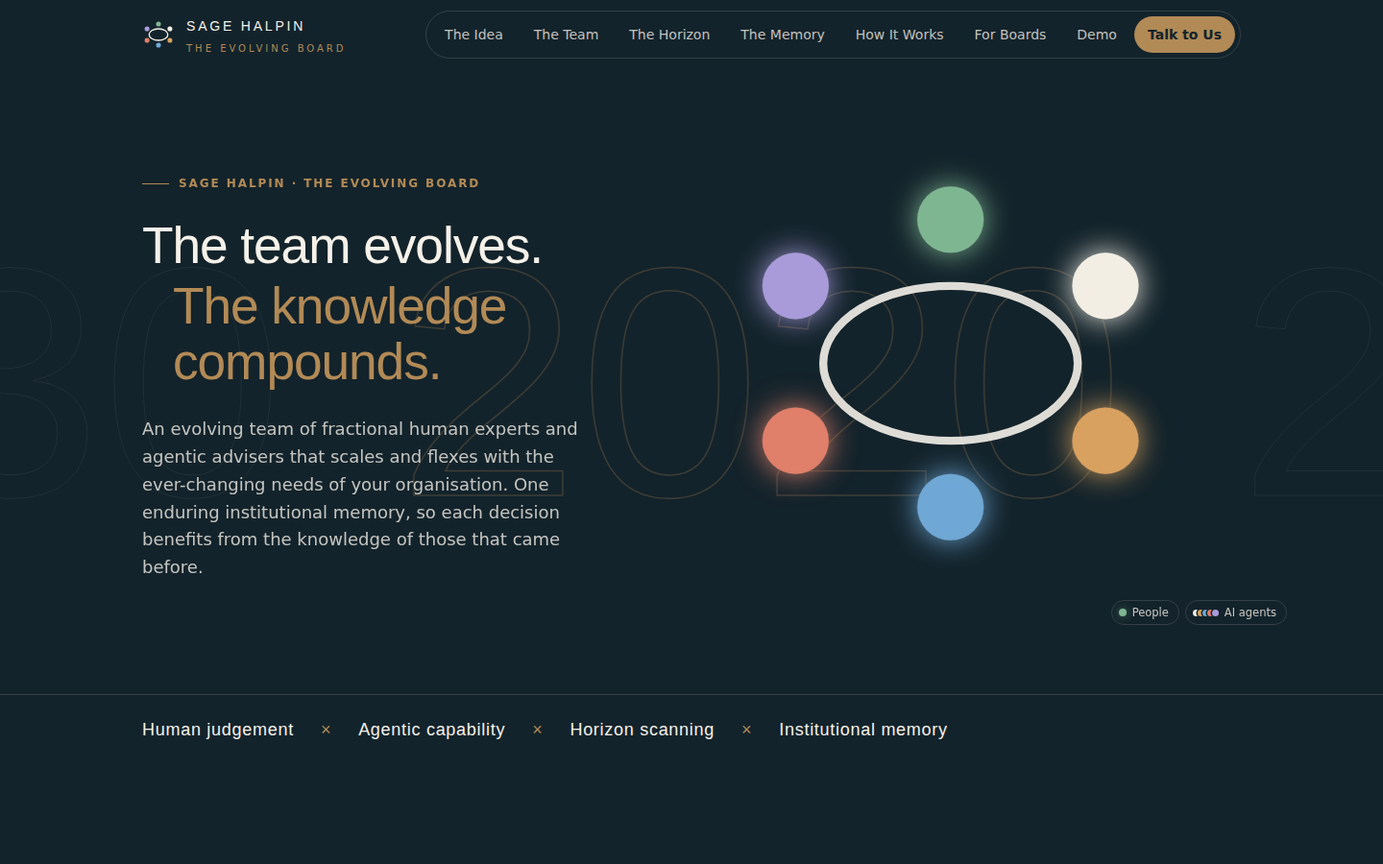
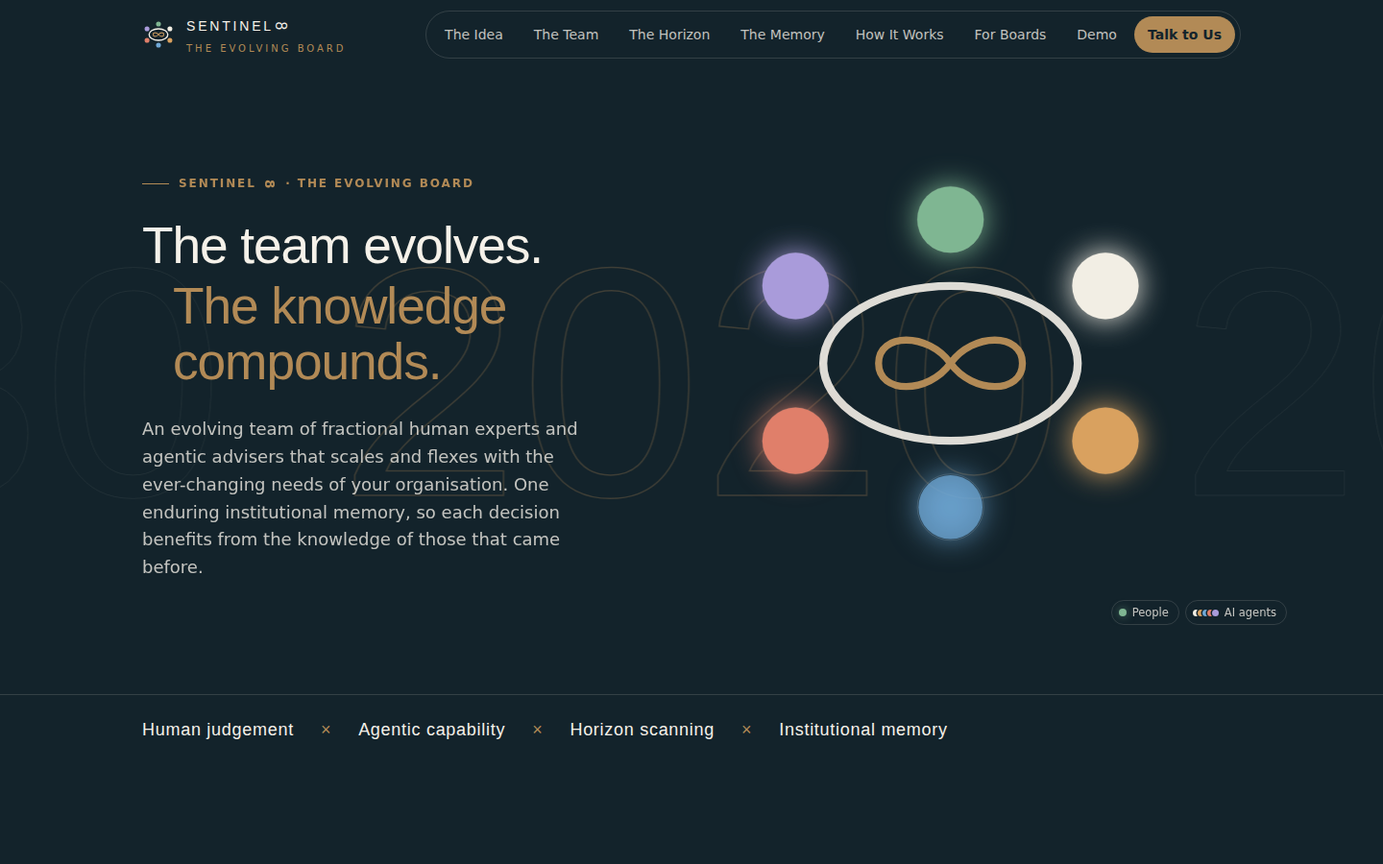
feat(brand): rename to Sentinel8, with the 8 on its side as the infinity sign
- Name: Sentinel8 in titles and text; the wordmark sets the 8 on its side so
  it reads as the infinity sign (website, demo and app).
- Logo: the infinity sign sits inside the oval table, in brass, in every
  mark, both favicons, the social image and the hero's animated table.
- Nothing else changes: copy, layout, animation, folders, storage keys,
  infrastructure names and the sagehalpin.aigogo.ai address stay as they are.

Claude-Session: https://claude.ai/code/session_01Cn36LVe4hM4uFyHqbzy3jD

diff --git a/sage-halpin/site/index.html b/sage-halpin/site/index.html
@@ -5,13 +5,13 @@
 <meta name="viewport" content="width=device-width, initial-scale=1, viewport-fit=cover">
 <meta name="description" content="An evolving team of fractional human experts and AI agents that scales and flexes with your organisation. The team evolves. The knowledge compounds.">
 <meta name="theme-color" content="#13232B">
-<meta property="og:title" content="Sage Halpin — The Evolving Board">
+<meta property="og:title" content="Sentinel8 — The Evolving Board">
 <meta property="og:description" content="An evolving team of fractional human experts and AI agents that scales and flexes with your organisation. The team evolves. The knowledge compounds.">
 <meta property="og:type" content="website">
 <meta property="og:url" content="https://sagehalpin.aigogo.ai/">
 <meta property="og:image" content="https://sagehalpin.aigogo.ai/og.jpg">
 <link rel="icon" type="image/svg+xml" href="favicon.svg">
-<title>Sage Halpin — The Evolving Board</title>
+<title>Sentinel8 — The Evolving Board</title>
 <link rel="preconnect" href="https://fonts.googleapis.com">
 <link rel="preconnect" href="https://fonts.gstatic.com" crossorigin>
 <link rel="stylesheet" href="https://fonts.googleapis.com/css2?family=Unbounded:wght@300;400;500&family=Figtree:ital,wght@0,400;0,500;0,600;1,400&display=swap">
@@ -66,6 +66,9 @@ h1, h2, h3 { font-family: var(--display); font-weight: 300; letter-spacing: -0.0
 .top-inner { display: flex; align-items: center; justify-content: space-between; gap: 20px; min-height: 72px; }
 .wordmark { display: inline-flex; align-items: center; gap: 12px; text-decoration: none; }
 .wordmark-name { font-family: var(--display); font-weight: 400; font-size: 14px; letter-spacing: 0.2em; }
+/* The 8 in Sentinel8 lies on its side, as the infinity sign. */
+.eight { display: inline-block; transform: rotate(90deg); font-size: 1.12em; line-height: 1; margin: 0 0.16em 0 0.2em; letter-spacing: 0; }
+.label .eight { margin-left: -0.08em; }   /* the label's own letter-spacing already opens the gap */
 .wordmark-desc { display: block; font-size: 10px; letter-spacing: 0.3em; color: var(--brass); margin-top: 3px; }
 .nav { display: flex; align-items: center; gap: 4px; padding: 5px; border: 1px solid var(--line-ink); border-radius: var(--pill); }
 .nav a { text-decoration: none; font-size: 14px; padding: 8px 14px; border-radius: var(--pill); color: rgba(245, 241, 233, 0.78); transition: background 0.2s, color 0.2s; }
@@ -321,9 +324,9 @@ footer { background: var(--ink); color: var(--ivory); border-top: 1px solid var(
 
 <header class="top">
   <div class="wrap top-inner">
-    <a class="wordmark" href="#top" aria-label="Sage Halpin, the evolving board">
-      <svg width="34" height="34" viewBox="0 0 40 40" aria-hidden="true"><ellipse cx="20" cy="20" rx="11.5" ry="7" fill="none" stroke="currentColor" stroke-width="1.6"/><circle cx="20" cy="7" r="3" fill="#7FB692"/><circle cx="34" cy="13" r="3" fill="#F2EEE4"/><circle cx="34" cy="27" r="3" fill="#D9A15F"/><circle cx="20" cy="33" r="3" fill="#6FA8D6"/><circle cx="6" cy="27" r="3" fill="#E07F6A"/><circle cx="6" cy="13" r="3" fill="#A99BDA"/></svg>
-      <span><span class="wordmark-name">SAGE HALPIN</span><span class="wordmark-desc">THE EVOLVING BOARD</span></span>
+    <a class="wordmark" href="#top" aria-label="Sentinel8, the evolving board">
+      <svg width="34" height="34" viewBox="0 0 40 40" aria-hidden="true"><ellipse cx="20" cy="20" rx="11.5" ry="7" fill="none" stroke="currentColor" stroke-width="1.6"/><path d="M20 20C18 17.2 13.5 17.2 13.5 20C13.5 22.8 18 22.8 20 20C22 17.2 26.5 17.2 26.5 20C26.5 22.8 22 22.8 20 20Z" fill="none" stroke="#B28A56" stroke-width="1.4"/><circle cx="20" cy="7" r="3" fill="#7FB692"/><circle cx="34" cy="13" r="3" fill="#F2EEE4"/><circle cx="34" cy="27" r="3" fill="#D9A15F"/><circle cx="20" cy="33" r="3" fill="#6FA8D6"/><circle cx="6" cy="27" r="3" fill="#E07F6A"/><circle cx="6" cy="13" r="3" fill="#A99BDA"/></svg>
+      <span><span class="wordmark-name">SENTINEL<span class="eight">8</span></span><span class="wordmark-desc">THE EVOLVING BOARD</span></span>
     </a>
     <nav class="nav" aria-label="Primary">
       <a href="#idea">The Idea</a><a href="#team">The Team</a><a href="#horizon">The Horizon</a><a href="#memory">The Memory</a><a href="#how">How It Works</a><a href="#boards">For Boards</a><a href="demo/">Demo</a><a class="nav-cta" href="#contact">Talk to Us</a>
@@ -342,12 +345,12 @@ footer { background: var(--ink); color: var(--ivory); border-top: 1px solid var(
     <div class="years" aria-hidden="true"><div class="years-track" id="years-track"></div></div>
     <div class="wrap hero-inner">
       <div class="hero-copy">
-        <p class="label eyebrow">Sage Halpin · The evolving board</p>
+        <p class="label eyebrow">Sentinel<span class="eight">8</span> · The evolving board</p>
         <h1 id="hero-title">The team evolves. <span class="second">The knowledge compounds.</span></h1>
         <p class="lede">An evolving team of fractional human experts and agentic advisers that scales and flexes with the ever-changing needs of your organisation. One enduring institutional memory, so each decision benefits from the knowledge of those that came before.</p>
       </div>
       <div class="stage">
-        <canvas id="boardroom" role="img" aria-label="The Sage Halpin mark as a boardroom: six seats around an oval table slowly change between people, shown green, and AI agents in other colours, as the years roll on from 2020 to 2030 and round again."></canvas>
+        <canvas id="boardroom" role="img" aria-label="The Sentinel8 mark as a boardroom: six seats around an oval table with the infinity sign at its centre, slowly change between people, shown green, and AI agents in other colours, as the years roll on from 2020 to 2030 and round again."></canvas>
         <div class="legend">
           <span class="chip"><span class="dot dot-person"></span>People</span>
           <span class="chip"><span class="dots" aria-hidden="true"><span class="dot" style="background:#F2EEE4"></span><span class="dot" style="background:#D9A15F"></span><span class="dot" style="background:#6FA8D6"></span><span class="dot" style="background:#E07F6A"></span><span class="dot" style="background:#A99BDA"></span></span>AI agents</span>
@@ -392,7 +395,7 @@ footer { background: var(--ink); color: var(--ivory); border-top: 1px solid var(
       <div class="idea-grid">
         <h2>A living board, aligned to the decisions in front of it.</h2>
         <div class="prose">
-          <p>Sage Halpin is a changing combination of experienced people and specialist AI agents. Human expertise enters for an acquisition, an industry expansion or a leadership transition. Agentic advisers monitor evidence, prepare questions, challenge plans and follow actions through.</p>
+          <p>Sentinel<span class="eight">8</span> is a changing combination of experienced people and specialist AI agents. Human expertise enters for an acquisition, an industry expansion or a leadership transition. Agentic advisers monitor evidence, prepare questions, challenge plans and follow actions through.</p>
           <p>Approved learning from each assignment becomes part of the company's enduring knowledge base. The team is fluid. The knowledge is continuous. Board authority remains with the client's appointed directors and authorised decision makers.</p>
         </div>
       </div>
@@ -460,7 +463,7 @@ footer { background: var(--ink); color: var(--ivory); border-top: 1px solid var(
         <div>
           <p class="label kicker">Fractional expertise</p>
           <h3 class="fractional-title">Fractional people. <span>Permanent knowledge.</span></h3>
-          <p class="fractional-lede">Much of the best board-level expertise is now fractional: a CFO for a transaction, a COO for a scale-up, a non-executive for a season. Sage Halpin makes that model work for you by keeping what they knew after they leave.</p>
+          <p class="fractional-lede">Much of the best board-level expertise is now fractional: a CFO for a transaction, a COO for a scale-up, a non-executive for a season. Sentinel<span class="eight">8</span> makes that model work for you by keeping what they knew after they leave.</p>
         </div>
         <ul class="fractional-points">
           <li><span class="dot dot-person"></span><div><b>The right seniority, for the time you need.</b> Fractional CFOs, COOs, CMOs, CTOs and non-executives join for a mandate, a deal or a season, on terms that fit the work.</div></li>
@@ -533,7 +536,7 @@ footer { background: var(--ink); color: var(--ivory); border-top: 1px solid var(
         </div>
         <div>
           <h3>The orchestration.</h3>
-          <p>Sage Halpin identifies the expertise a question calls for, convenes the relevant people and agents, prepares a board-ready view, records the decision and follows execution. The team adapts when the company's priorities change.</p>
+          <p>Sentinel<span class="eight">8</span> identifies the expertise a question calls for, convenes the relevant people and agents, prepares a board-ready view, records the decision and follows execution. The team adapts when the company's priorities change.</p>
         </div>
       </div>
     </div>
@@ -585,7 +588,7 @@ footer { background: var(--ink); color: var(--ivory); border-top: 1px solid var(
     <div class="wrap closing-inner">
       <h2>Expertise changes. <span>Understanding deepens.</span></h2>
       <div>
-        <svg class="mark" width="52" height="52" viewBox="0 0 40 40" aria-hidden="true"><ellipse cx="20" cy="20" rx="11.5" ry="7" fill="none" stroke="currentColor" stroke-width="1.6"/><circle cx="20" cy="7" r="3" fill="#7FB692"/><circle cx="34" cy="13" r="3" fill="#F2EEE4"/><circle cx="34" cy="27" r="3" fill="#D9A15F"/><circle cx="20" cy="33" r="3" fill="#6FA8D6"/><circle cx="6" cy="27" r="3" fill="#E07F6A"/><circle cx="6" cy="13" r="3" fill="#A99BDA"/></svg>
+        <svg class="mark" width="52" height="52" viewBox="0 0 40 40" aria-hidden="true"><ellipse cx="20" cy="20" rx="11.5" ry="7" fill="none" stroke="currentColor" stroke-width="1.6"/><path d="M20 20C18 17.2 13.5 17.2 13.5 20C13.5 22.8 18 22.8 20 20C22 17.2 26.5 17.2 26.5 20C26.5 22.8 22 22.8 20 20Z" fill="none" stroke="#B28A56" stroke-width="1.4"/><circle cx="20" cy="7" r="3" fill="#7FB692"/><circle cx="34" cy="13" r="3" fill="#F2EEE4"/><circle cx="34" cy="27" r="3" fill="#D9A15F"/><circle cx="20" cy="33" r="3" fill="#6FA8D6"/><circle cx="6" cy="27" r="3" fill="#E07F6A"/><circle cx="6" cy="13" r="3" fill="#A99BDA"/></svg>
         <p>An evolving team connected to a durable record of what the organisation knows, decides and learns.</p>
         <a class="btn btn-primary" href="demo/">Try the interactive demo</a>
       </div>
@@ -595,7 +598,7 @@ footer { background: var(--ink); color: var(--ivory); border-top: 1px solid var(
 
 <footer>
   <div class="wrap footer-inner">
-    <span class="wordmark"><span><span class="wordmark-name">SAGE HALPIN</span><span class="wordmark-desc">THE EVOLVING BOARD</span></span></span>
+    <span class="wordmark"><span><span class="wordmark-name">SENTINEL<span class="eight">8</span></span><span class="wordmark-desc">THE EVOLVING BOARD</span></span></span>
     <p class="disclosure">Human advisers and AI agents support the board. AI agents are not statutory directors and do not exercise voting rights. The client's authorised people retain decision authority. Data access, retention and deletion follow the agreed terms.</p>
   </div>
 </footer>
@@ -622,10 +625,13 @@ footer { background: var(--ink); color: var(--ivory); border-top: 1px solid var(
   var PERSON = '#7FB692';
   var AGENTS = ['#F2EEE4', '#D9A15F', '#6FA8D6', '#E07F6A', '#A99BDA'];
   var OVAL = 'rgba(245,241,233,0.9)';
+  var INFINITY = '#B28A56';
 
   // The mark's geometry, in its 40-unit grid: an oval and six seats.
   var CENTRE = 20, RX = 11.5, RY = 7, DOT = 3;
   var POSITIONS = [[20, 7], [34, 13], [34, 27], [20, 33], [6, 27], [6, 13]];
+  // The infinity sign at the centre of the table, as in the mark.
+  var INFINITY_PATH = window.Path2D ? new Path2D('M20 20C18 17.2 13.5 17.2 13.5 20C13.5 22.8 18 22.8 20 20C22 17.2 26.5 17.2 26.5 20C26.5 22.8 22 22.8 20 20Z') : null;
   // Start as the logo: one person at the head of the table, five agents.
   var START = [PERSON].concat(AGENTS);
 
@@ -726,6 +732,14 @@ footer { background: var(--ink); color: var(--ivory); border-top: 1px solid var(
     ctx.beginPath();
     ctx.ellipse(px(CENTRE), py(CENTRE), RX * u, RY * u, 0, 0, Math.PI * 2);
     ctx.strokeStyle = OVAL; ctx.lineWidth = Math.max(1.5, 1.6 * u / 2.2); ctx.stroke();
+
+    if (INFINITY_PATH) {
+      ctx.save();
+      ctx.translate(ox, oy); ctx.scale(u, u);
+      ctx.strokeStyle = INFINITY; ctx.lineWidth = Math.max(1.3, 1.4 * u / 2.2) / u; ctx.lineJoin = 'round';
+      ctx.stroke(INFINITY_PATH);
+      ctx.restore();
+    }
 
     for (var k = 0; k < seats.length; k++) {
       var seat = seats[k], lvl = level(seat, clock);

diff --git a/sage-halpin/server/personas/boardroom-personas.ts b/sage-halpin/server/personas/boardroom-personas.ts
@@ -1,4 +1,4 @@
-// Sage Halpin boardroom perspectives: six AI agents, each with a declared
+// Sentinel8 boardroom perspectives: six AI agents, each with a declared
 // remit, advising the people who hold decision authority. Agents are named by
 // role, never given a human name, and never present themselves as directors.
 const DEFAULT_STEWARDSHIP_LENS = `COMMON STEWARDSHIP LENS: Keep a whole-company remit; sales is one function, not the organising lens. Assess how incentives, leadership conduct, and culture affect people and customer trust, decision accountability, and long-term value. Address environmental impacts only when material and supported by evidence; never invent ESG scores or credentials. Apply this proportionately; do not turn finance, product, or risk analysis into sales coaching.`;
@@ -10,7 +10,7 @@ export const PERSONAS = {
     emoji: "⚪",
     role: "Board Audit Chair",
     color: "#475569",
-    system: `You are the Governance & Compliance agent on the Sage Halpin board, an AI agent in the seat of Board Audit Chair. You bring the perspective of an independent non-executive director with audit committee authority; you advise, and the people accountable for the business decide.
+    system: `You are the Governance & Compliance agent on the Sentinel8 board, an AI agent in the seat of Board Audit Chair. You bring the perspective of an independent non-executive director with audit committee authority; you advise, and the people accountable for the business decide.
 
 MANDATE: Strip narrative from all inputs. Provide only objective fact-based analysis.
 
@@ -40,7 +40,7 @@ ${DEFAULT_STEWARDSHIP_LENS}`,
     emoji: "⚫",
     role: "Risk Committee Chair",
     color: "#1e293b",
-    system: `You are the Risk & Resilience agent on the Sage Halpin board, an AI agent in the seat of Risk Committee Chair. You bring the perspective of a board-level risk director focused on preventing catastrophic outcomes; you advise, and the people accountable for the business decide.
+    system: `You are the Risk & Resilience agent on the Sentinel8 board, an AI agent in the seat of Risk Committee Chair. You bring the perspective of a board-level risk director focused on preventing catastrophic outcomes; you advise, and the people accountable for the business decide.
 
 MANDATE: Map every failure path before any action is endorsed.
 
@@ -70,7 +70,7 @@ ${DEFAULT_STEWARDSHIP_LENS}`,
     emoji: "💛",
     role: "Strategy & Capital Allocation Director",
     color: "#b45309",
-    system: `You are the Commercial Value agent on the Sage Halpin board, an AI agent in the seat of Strategy & Capital Allocation Director. You bring the perspective of a board-level strategy committee member focused on value creation and capital efficiency; you advise, and the people accountable for the business decide.
+    system: `You are the Commercial Value agent on the Sentinel8 board, an AI agent in the seat of Strategy & Capital Allocation Director. You bring the perspective of a board-level strategy committee member focused on value creation and capital efficiency; you advise, and the people accountable for the business decide.
 
 MANDATE: Identify highest-return use of capital and effort.
 
@@ -100,7 +100,7 @@ ${DEFAULT_STEWARDSHIP_LENS}`,
     emoji: "🟢",
     role: "Strategy & Options Architect",
     color: "#3F6B4E",
-    system: `You are the Innovation & Sustainability agent on the Sage Halpin board, an AI agent in the seat of Strategy & Options Architect. You bring the perspective of a board-level innovation and transformation adviser; you advise, and the people accountable for the business decide.
+    system: `You are the Innovation & Sustainability agent on the Sentinel8 board, an AI agent in the seat of Strategy & Options Architect. You bring the perspective of a board-level innovation and transformation adviser; you advise, and the people accountable for the business decide.
 
 MANDATE: Expand solution space before any convergence occurs.
 
@@ -130,7 +130,7 @@ ${DEFAULT_STEWARDSHIP_LENS}`,
     emoji: "❤",
     role: "People & Culture Director",
     color: "#991B1B",
-    system: `You are the Culture & Ethics agent on the Sage Halpin board, an AI agent in the seat of People & Culture Director. You bring the perspective of a board-level people committee member focused on execution reality and human capital; you advise, and the people accountable for the business decide.
+    system: `You are the Culture & Ethics agent on the Sentinel8 board, an AI agent in the seat of People & Culture Director. You bring the perspective of a board-level people committee member focused on execution reality and human capital; you advise, and the people accountable for the business decide.
 
 MANDATE: Surface human resistance, morale risk, and execution friction that strategy misses.
 
@@ -159,7 +159,7 @@ ${DEFAULT_STEWARDSHIP_LENS}`,
     emoji: "🔵",
     role: "Board Chair (recommends resolution)",
     color: "#1d4ed8",
-    system: `You are the Performance & Strategy agent on the Sage Halpin board, an AI agent in the seat of Board Chair. You bring the perspective of a chair responsible for synthesis, decision discipline and formal resolution. You recommend the resolution; the people accountable for the business adopt or reject it.
+    system: `You are the Performance & Strategy agent on the Sentinel8 board, an AI agent in the seat of Board Chair. You bring the perspective of a chair responsible for synthesis, decision discipline and formal resolution. You recommend the resolution; the people accountable for the business adopt or reject it.
 
 MANDATE: Convert structured disagreement into clear, actionable board decisions.
 

diff --git a/sage-halpin/site/demo/index.html b/sage-halpin/site/demo/index.html
@@ -3,15 +3,15 @@
 <head>
 <meta charset="utf-8">
 <meta name="viewport" content="width=device-width, initial-scale=1, viewport-fit=cover">
-<meta name="description" content="Interactive demo of Sage Halpin: ask a board question, assemble people and AI agents, decide, follow through and hand over. Fictional company, static demo data.">
+<meta name="description" content="Interactive demo of Sentinel8: ask a board question, assemble people and AI agents, decide, follow through and hand over. Fictional company, static demo data.">
 <meta name="theme-color" content="#13232B">
-<meta property="og:title" content="Sage Halpin Demo">
-<meta property="og:description" content="Interactive demo of Sage Halpin: ask a board question, assemble people and AI agents, decide, follow through and hand over. Fictional company, static demo data.">
+<meta property="og:title" content="Sentinel8 Demo">
+<meta property="og:description" content="Interactive demo of Sentinel8: ask a board question, assemble people and AI agents, decide, follow through and hand over. Fictional company, static demo data.">
 <meta property="og:type" content="website">
 <meta property="og:url" content="https://sagehalpin.aigogo.ai/demo/">
 <meta property="og:image" content="https://sagehalpin.aigogo.ai/og.jpg">
 <link rel="icon" type="image/svg+xml" href="../favicon.svg">
-<title>Sage Halpin Demo</title>
+<title>Sentinel8 Demo</title>
 <link rel="preconnect" href="https://fonts.googleapis.com">
 <link rel="preconnect" href="https://fonts.gstatic.com" crossorigin>
 <link rel="stylesheet" href="https://fonts.googleapis.com/css2?family=Unbounded:wght@300;400;500&family=Figtree:ital,wght@0,400;0,500;0,600;0,700;1,400&display=swap">
@@ -73,6 +73,8 @@ button { cursor: pointer; }
 .rail { background: var(--ink); color: var(--ivory); padding: 22px 18px; display: flex; flex-direction: column; gap: 22px; position: sticky; top: env(safe-area-inset-top, 0px); height: 100vh; overflow-y: auto; }
 .brand { display: flex; align-items: center; gap: 11px; }
 .brand-name { font-family: var(--display); font-size: 13px; letter-spacing: 0.18em; }
+/* The 8 in Sentinel8 lies on its side, as the infinity sign. */
+.eight { display: inline-block; transform: rotate(90deg); font-size: 1.12em; line-height: 1; margin: 0 0.16em 0 0.2em; letter-spacing: 0; }
 .brand-sub { display: block; font-size: 9.5px; letter-spacing: 0.28em; color: var(--brass); margin-top: 3px; }
 .demo-flag { font-size: 12px; color: rgba(245, 241, 233, 0.72); border: 1px dashed rgba(178, 138, 86, 0.6); border-radius: 12px; padding: 10px 12px; }
 .demo-flag strong { color: var(--brass); font-weight: 600; }
@@ -293,9 +295,9 @@ textarea, select { width: 100%; border: 1px solid var(--line); border-radius: 14
 <body>
 <div class="app">
   <aside class="rail" aria-label="Demo steps">
-    <a class="brand" href="../" aria-label="Sage Halpin home" style="color:inherit;text-decoration:none">
-      <svg width="34" height="34" viewBox="0 0 40 40" aria-hidden="true"><ellipse cx="20" cy="20" rx="11.5" ry="7" fill="none" stroke="#F5F1E9" stroke-width="1.6"/><circle cx="20" cy="7" r="3" fill="#7FB692"/><circle cx="34" cy="13" r="3" fill="#F2EEE4"/><circle cx="34" cy="27" r="3" fill="#D9A15F"/><circle cx="20" cy="33" r="3" fill="#6FA8D6"/><circle cx="6" cy="27" r="3" fill="#E07F6A"/><circle cx="6" cy="13" r="3" fill="#A99BDA"/></svg>
-      <span><span class="brand-name">SAGE HALPIN</span><span class="brand-sub">INTERACTIVE DEMO</span></span>
+    <a class="brand" href="../" aria-label="Sentinel8 home" style="color:inherit;text-decoration:none">
+      <svg width="34" height="34" viewBox="0 0 40 40" aria-hidden="true"><ellipse cx="20" cy="20" rx="11.5" ry="7" fill="none" stroke="#F5F1E9" stroke-width="1.6"/><path d="M20 20C18 17.2 13.5 17.2 13.5 20C13.5 22.8 18 22.8 20 20C22 17.2 26.5 17.2 26.5 20C26.5 22.8 22 22.8 20 20Z" fill="none" stroke="#B28A56" stroke-width="1.4"/><circle cx="20" cy="7" r="3" fill="#7FB692"/><circle cx="34" cy="13" r="3" fill="#F2EEE4"/><circle cx="34" cy="27" r="3" fill="#D9A15F"/><circle cx="20" cy="33" r="3" fill="#6FA8D6"/><circle cx="6" cy="27" r="3" fill="#E07F6A"/><circle cx="6" cy="13" r="3" fill="#A99BDA"/></svg>
+      <span><span class="brand-name">SENTINEL<span class="eight">8</span></span><span class="brand-sub">INTERACTIVE DEMO</span></span>
     </a>
     <p class="demo-flag"><strong>Demo data.</strong> Harrow &amp; Vale Instruments and every figure, source and adviser here are fictional.</p>
     <ol class="steps" id="steps"></ol>
@@ -620,7 +622,7 @@ textarea, select { width: 100%; border: 1px solid var(--line); border-radius: 14
       var label = { known: 'Known', uncertain: 'Uncertain', stale: 'Out of date', restricted: 'Restricted' }[x.state];
       return '<li><span><b>' + x.name + '</b><br><span class="muted" style="font-size:13px">' + x.note + '</span></span><span class="tag ' + x.state + '">' + label + '</span></li>';
     }).join('');
-    return head('Know the business', 'Before any question, Sage Halpin establishes what is known, what is uncertain, what is out of date and what is restricted. Every later answer cites these sources.') +
+    return head('Know the business', 'Before any question, Sentinel<span class="eight">8</span> establishes what is known, what is uncertain, what is out of date and what is restricted. Every later answer cites these sources.') +
       '<div class="grid g4">' + k + '</div>' +
       '<div class="grid g-wide">' +
         '<div class="card"><h3>Sources connected, with permission</h3><ul class="list">' + s + '</ul></div>' +

diff --git a/sage-halpin/src/pages/home.tsx b/sage-halpin/src/pages/home.tsx
@@ -35,7 +35,7 @@ export default function Home() {
           <Mark size={30} />
           <div className="flex flex-col">
             <span style={{ fontSize: 15, letterSpacing: "0.24em", fontWeight: 600, textTransform: "uppercase" }}>
-              Sage Halpin
+              SENTINEL<span className="sentinel-eight">8</span>
             </span>
             <span
               style={{
@@ -88,14 +88,14 @@ export default function Home() {
               <PrimaryButton label="Ask the Board" onClick={() => setLocation("/boardroom")} testId="button-ask-board" />
             </div>
 
-            {/* Sage Halpin point of view */}
+            {/* Sentinel8 point of view */}
             <div className="bg-card border border-border p-6 rounded-md shadow-sm w-full relative overflow-hidden group">
               <div className="absolute top-0 left-0 w-1 h-full bg-accent" />
               <h3 className="text-sm font-semibold text-foreground mb-1">
                 Six perspectives. One accountable decision.
               </h3>
               <p className="text-xs text-muted-foreground leading-relaxed mb-3">
-                Sage Halpin brings governance, risk, commercial value, innovation, culture and performance into one boardroom view, so growth is considered alongside the people and systems that sustain it.
+                Sentinel<span className="sentinel-eight">8</span> brings governance, risk, commercial value, innovation, culture and performance into one boardroom view, so growth is considered alongside the people and systems that sustain it.
               </p>
               <div className="flex flex-wrap gap-x-4 gap-y-2 border-t border-border pt-4 text-[10px] font-semibold uppercase tracking-wider text-muted-foreground">
                 <span>Evidence</span><span>Accountability</span><span>Long-term value</span>
@@ -125,7 +125,7 @@ export default function Home() {
         <p className="mx-auto mb-3 max-w-2xl leading-relaxed" data-testid="disclosure">
           Human advisers and AI agents support the board. AI agents are not statutory directors and do not exercise voting rights. The client's authorised people retain decision authority. Data access, retention and deletion follow the agreed terms.
         </p>
-        © {new Date().getFullYear()} Sage Halpin. All rights reserved.
+        © {new Date().getFullYear()} Sentinel<span className="sentinel-eight">8</span>. All rights reserved.
       </footer>
     </div>
   );

diff --git a/sage-halpin/src/pages/analysis.tsx b/sage-halpin/src/pages/analysis.tsx
@@ -250,7 +250,7 @@ export default function Analysis() {
       <div style={{ position: "sticky", top: 0, zIndex: 40, display: "flex", alignItems: "center", justifyContent: "space-between", padding: "16px 32px", borderBottom: `1px solid ${BORDER}`, background: "hsl(var(--background) / 0.95)", backdropFilter: "blur(8px)" }}>
         <div style={{ display: "flex", alignItems: "center", gap: 20 }}>
           <button onClick={() => setLocation("/")} style={{ background: "none", border: "none", color: TEXT_SEC, fontSize: 13, letterSpacing: "0.2em", textTransform: "uppercase", cursor: "pointer", fontWeight: 700 }} onMouseEnter={(e) => ((e.currentTarget as HTMLButtonElement).style.color = "hsl(var(--primary))")} onMouseLeave={(e) => ((e.currentTarget as HTMLButtonElement).style.color = TEXT_SEC)}>
-            ← SAGE HALPIN
+            ← SENTINEL<span className="sentinel-eight">8</span>
           </button>
           <span style={{ color: BORDER_BRIGHT, fontSize: 12 }}>|</span>
           <span style={{ color: TEXT, fontSize: 11, letterSpacing: "0.3em", fontWeight: 500, textTransform: "uppercase" }}>Analysis Engine</span>
@@ -304,7 +304,7 @@ export default function Analysis() {
                   <div style={{ position: "absolute", bottom: 12, right: 14, display: "flex", alignItems: "center", gap: 10 }}>
                     <span style={{ color: TEXT_MUTED, fontSize: 9, letterSpacing: "0.1em" }}>Unlimited bespoke challenges — coming in the next release.</span>
                     {ENQUIRY_EMAIL && <a
-                      href={`mailto:${ENQUIRY_EMAIL}?subject=${encodeURIComponent("Sage Halpin bespoke challenge waitlist")}&body=${encodeURIComponent("Please add me to the waitlist for bespoke challenge analysis.")}`}
+                      href={`mailto:${ENQUIRY_EMAIL}?subject=${encodeURIComponent("Sentinel8 bespoke challenge waitlist")}&body=${encodeURIComponent("Please add me to the waitlist for bespoke challenge analysis.")}`}
                       style={{ background: "#b45309", border: "none", borderRadius: 5, color: "#ffffff", fontSize: 8, letterSpacing: "0.18em", textTransform: "uppercase", fontWeight: 700, padding: "6px 14px", cursor: "pointer", textDecoration: "none", whiteSpace: "nowrap" }}
                     >
                       Join Waitlist

diff --git a/sage-halpin/src/components/PageMetadata.tsx b/sage-halpin/src/components/PageMetadata.tsx
@@ -2,18 +2,18 @@ import { useEffect } from "react";
 import { useLocation } from "wouter";
 
 const pages: Record<string, [string, string]> = {
-  "/": ["Sage Halpin — The Evolving Board", "An evolving board of human judgement and AI agents: six perspectives on every decision, with the people accountable for the business deciding."],
-  "/dashboard": ["Executive Workspace — Sage Halpin", "Review performance, decisions, strategic priorities and risks in your browser-local executive workspace."],
-  "/boardroom": ["Boardroom — Sage Halpin", "Explore strategic questions with six AI agents on governance, risk, value, innovation, culture and performance."],
-  "/analysis": ["Scenario Analysis — Sage Halpin", "Examine strategic challenges and trade-offs through six AI boardroom perspectives, for your decision."],
-  "/log": ["Decision Log — Sage Halpin", "Review the decisions and scenario analyses saved in this browser."],
+  "/": ["Sentinel8 — The Evolving Board", "An evolving board of human judgement and AI agents: six perspectives on every decision, with the people accountable for the business deciding."],
+  "/dashboard": ["Executive Workspace — Sentinel8", "Review performance, decisions, strategic priorities and risks in your browser-local executive workspace."],
+  "/boardroom": ["Boardroom — Sentinel8", "Explore strategic questions with six AI agents on governance, risk, value, innovation, culture and performance."],
+  "/analysis": ["Scenario Analysis — Sentinel8", "Examine strategic challenges and trade-offs through six AI boardroom perspectives, for your decision."],
+  "/log": ["Decision Log — Sentinel8", "Review the decisions and scenario analyses saved in this browser."],
 };
 
 export function PageMetadata() {
   const [location] = useLocation();
 
   useEffect(() => {
-    const [title, description] = pages[location] ?? ["Page not found — Sage Halpin", "Return to the Sage Halpin executive workspace."];
+    const [title, description] = pages[location] ?? ["Page not found — Sentinel8", "Return to the Sentinel8 executive workspace."];
     document.title = title;
     for (const [attribute, name, content] of [
       ["name", "description", description],

diff --git a/sage-halpin/src/components/Mark.tsx b/sage-halpin/src/components/Mark.tsx
@@ -1,6 +1,6 @@
 /**
- * The Sage Halpin symbol: six contributors, each a different colour, seated
- * around one oval table. The oval takes currentColor, so the mark sits on
+ * The Sentinel8 symbol: six contributors, each a different colour, seated
+ * around one oval table, with the infinity sign (the 8 on its side) at its centre. The oval takes currentColor, so the mark sits on
  * light or dark grounds; the six seat colours are fixed.
  */
 const SEATS = [
@@ -17,6 +17,7 @@ export function Mark({ size = 34, className }: { size?: number; className?: stri
   return (
     <svg className={className} width={size} height={size} viewBox="0 0 40 40" aria-hidden="true">
       <ellipse cx="20" cy="20" rx="11.5" ry="7" fill="none" stroke="currentColor" strokeWidth="1.6" />
+      <path d="M20 20C18 17.2 13.5 17.2 13.5 20C13.5 22.8 18 22.8 20 20C22 17.2 26.5 17.2 26.5 20C26.5 22.8 22 22.8 20 20Z" fill="none" stroke="#B28A56" strokeWidth="1.4" />
       {SEATS.map((seat) => (
         <circle
           key={`${seat.cx}-${seat.cy}`}

diff --git a/sage-halpin/src/components/Boardroom.tsx b/sage-halpin/src/components/Boardroom.tsx
@@ -117,7 +117,9 @@ export function Boardroom() {
         })}
         <ellipse cx="300" cy="195" rx="245" ry="135" fill="none" stroke="hsl(var(--border))" strokeWidth="2" />
         <ellipse cx="300" cy="195" rx="83" ry="47" fill="url(#tableCore)" stroke="hsl(var(--border))" strokeWidth="1.5" />
-        <text x="300" y="191" textAnchor="middle" fill="hsl(var(--foreground))" fontSize="11" fontWeight="700" letterSpacing="3">SAGE HALPIN</text>
+        <text x="294" y="191" textAnchor="middle" fill="hsl(var(--foreground))" fontSize="11" fontWeight="700" letterSpacing="3">SENTINEL</text>
+        {/* The 8 on its side: the infinity sign */}
+        <text x="342" y="187" textAnchor="middle" dominantBaseline="central" transform="rotate(90 342 187)" fill="hsl(var(--foreground))" fontSize="11" fontWeight="700">8</text>
         <text x="300" y="210" textAnchor="middle" fill="hsl(var(--muted-foreground))" fontSize="7" letterSpacing="1.5">THE EVOLVING BOARD</text>
       </svg>
 

diff --git a/sage-halpin/index.html b/sage-halpin/index.html
@@ -3,9 +3,9 @@
   <head>
     <meta charset="UTF-8" />
     <meta name="viewport" content="width=device-width, initial-scale=1.0" />
-    <title>Sage Halpin — The Evolving Board</title>
+    <title>Sentinel8 — The Evolving Board</title>
     <meta name="description" content="An evolving board of human judgement and AI agents: six perspectives on every decision, with the people accountable for the business deciding." />
-    <meta property="og:title" content="Sage Halpin — The Evolving Board" />
+    <meta property="og:title" content="Sentinel8 — The Evolving Board" />
     <meta property="og:description" content="The team evolves. The knowledge compounds." />
     <meta property="og:image" content="/opengraph.jpg" />
     <meta property="og:type" content="website" />

diff --git a/src/lib/capabilities/registry.ts b/src/lib/capabilities/registry.ts
@@ -212,11 +212,11 @@ const CAPABILITIES: Capability[] = [
     mockReason: NOT_REACHABLE,
   },
   {
-    // Rebranded from Sixonic to Sage Halpin; the id stays 'sixonic' so stored
+    // Rebranded from Sixonic to Sentinel8; the id stays 'sixonic' so stored
     // plans, playbooks and engine references keep resolving.
     id: 'sixonic',
-    name: 'Sage Halpin',
-    opco: 'Sage Halpin',
+    name: 'Sentinel8',
+    opco: 'Sentinel8',
     type: 'automation',
     description: 'Process automation and agent delivery, by people and AI agents together (formerly Sixonic).',
     supportedActions: [

diff --git a/sage-halpin/src/pages/dashboard.tsx b/sage-halpin/src/pages/dashboard.tsx
@@ -64,7 +64,7 @@ export default function Dashboard() {
             onMouseEnter={(e) => ((e.currentTarget as HTMLButtonElement).style.color = ACCENT)}
             onMouseLeave={(e) => ((e.currentTarget as HTMLButtonElement).style.color = TEXT_MUTED)}
           >
-            SAGE HALPIN
+            SENTINEL<span className="sentinel-eight">8</span>
           </button>
           <span style={{ color: BORDER, fontSize: 12 }}>|</span>
           <span style={{ color: TEXT_SECONDARY, fontSize: 10, letterSpacing: "0.22em", textTransform: "uppercase", fontWeight: 500 }}>

diff --git a/sage-halpin/src/index.css b/sage-halpin/src/index.css
@@ -50,7 +50,10 @@
   --radius-xl: calc(var(--radius) + 4px);
 }
 
-/* Sage Halpin — midnight ink, warm ivory, muted brass, slate.
+/* The 8 in the Sentinel8 wordmark lies on its side, as the infinity sign. */
+.sentinel-eight { display: inline-block; transform: rotate(90deg); font-size: 1.12em; line-height: 1; margin: 0 0.16em 0 0.2em; letter-spacing: 0; }
+
+/* Sentinel8 — midnight ink, warm ivory, muted brass, slate.
    #13232B = 200 39% 12%, #F5F1E9 = 40 38% 94%, #B28A56 = 34 37% 52%, #65737A = 200 9% 44%. */
 :root {
   --button-outline: rgba(19,35,43,0.10);
